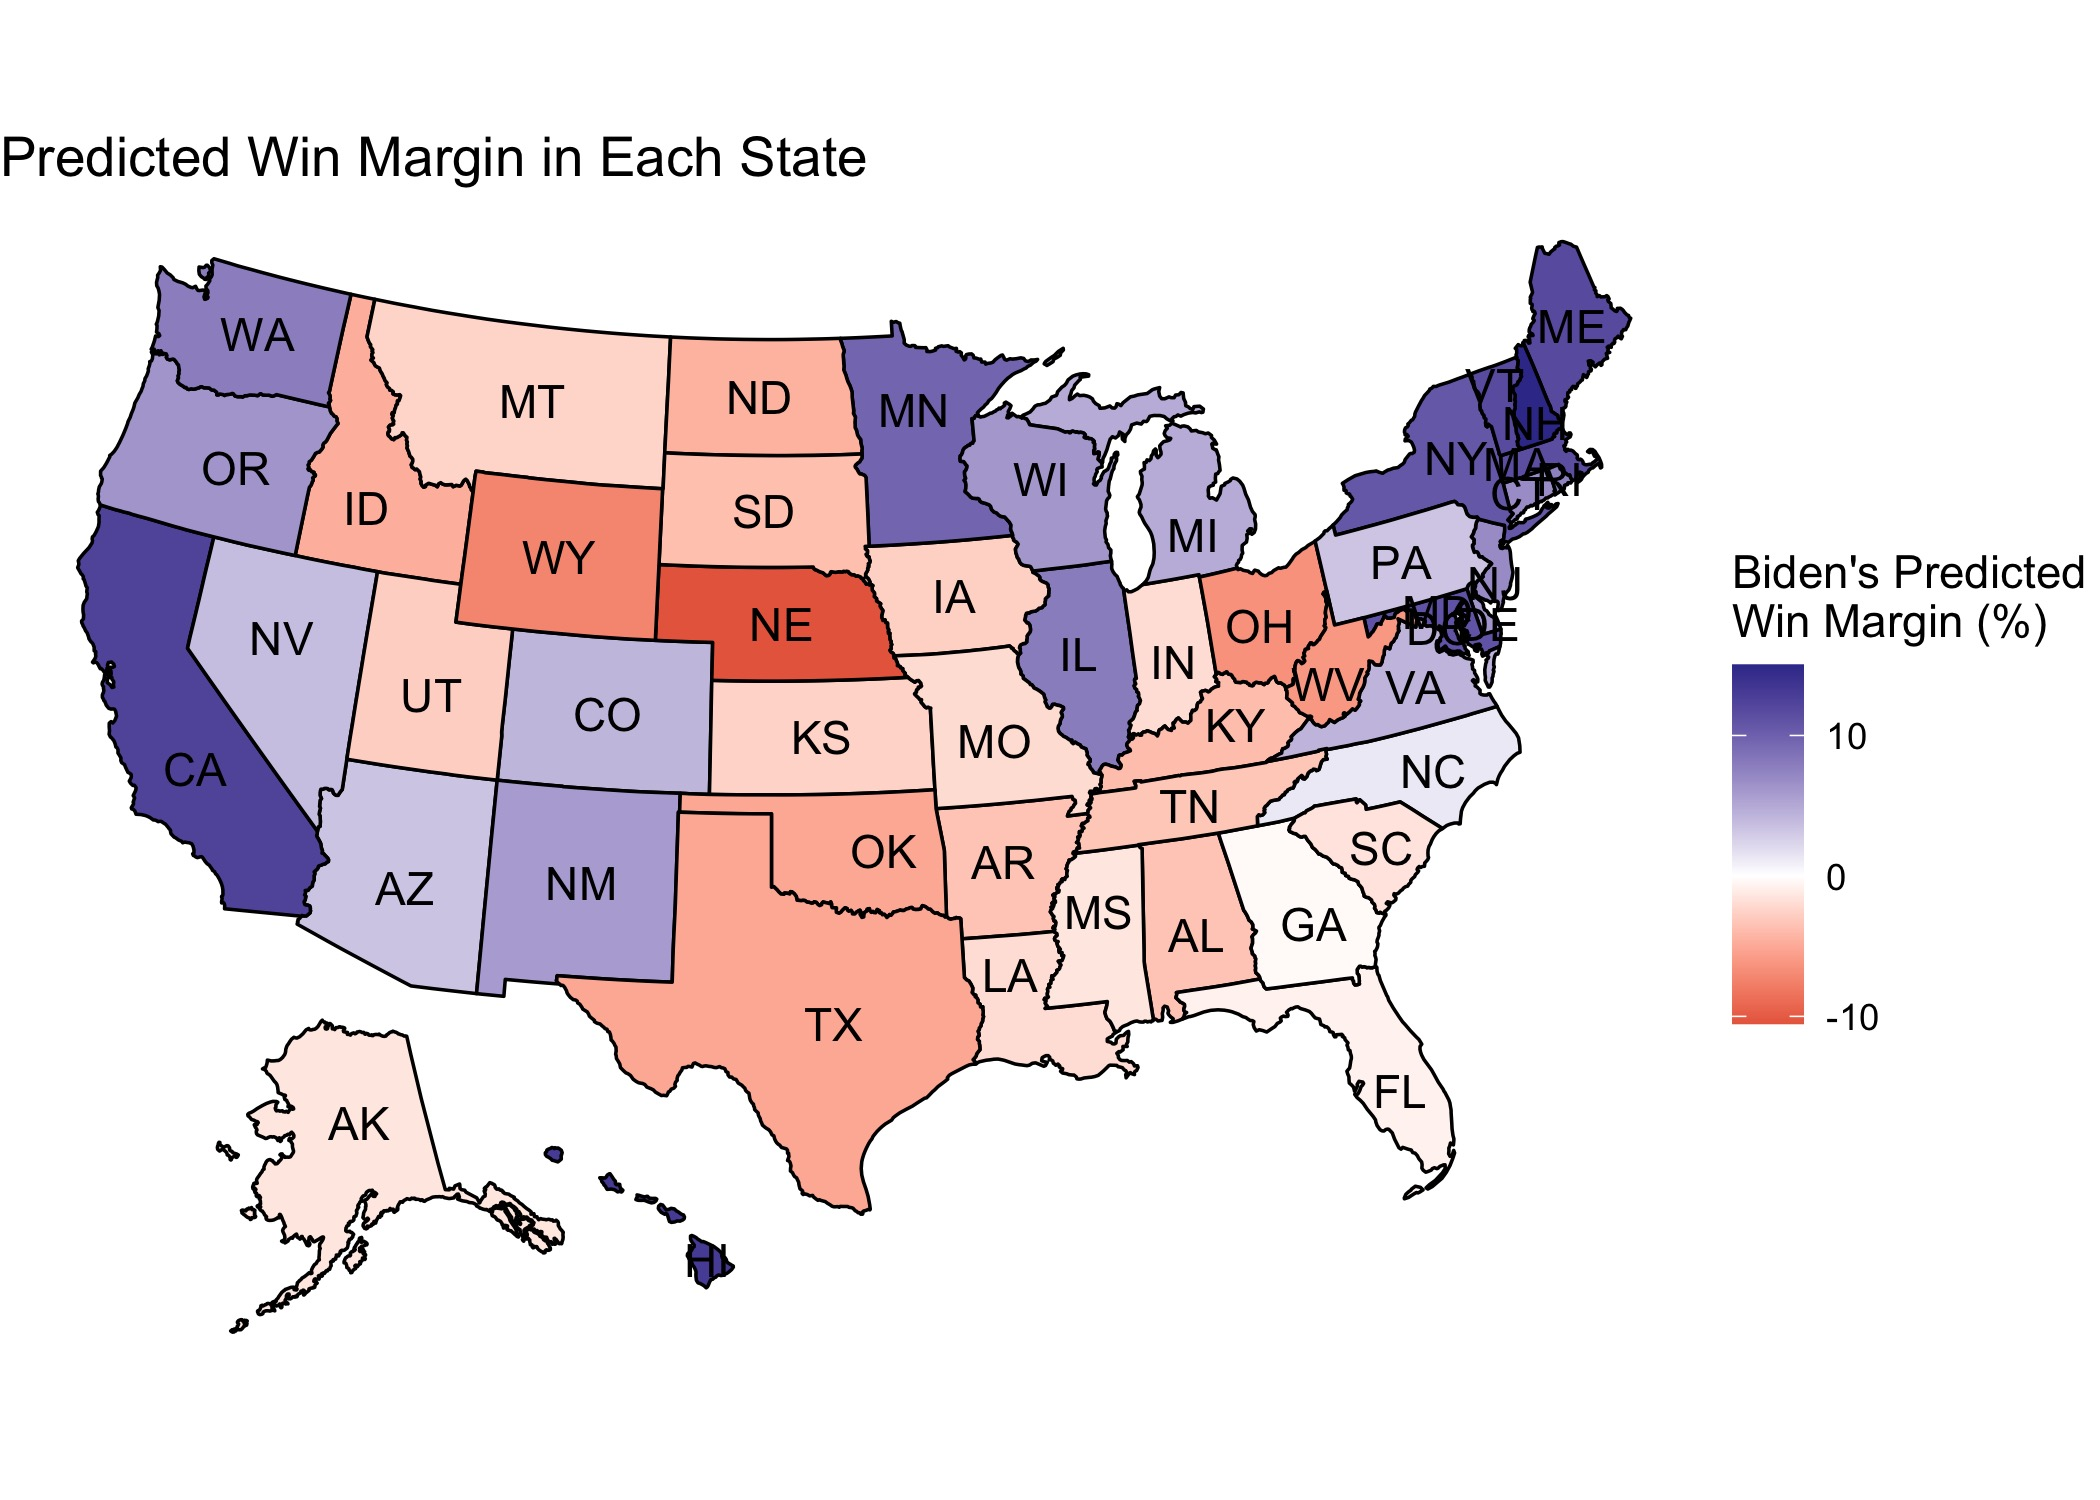
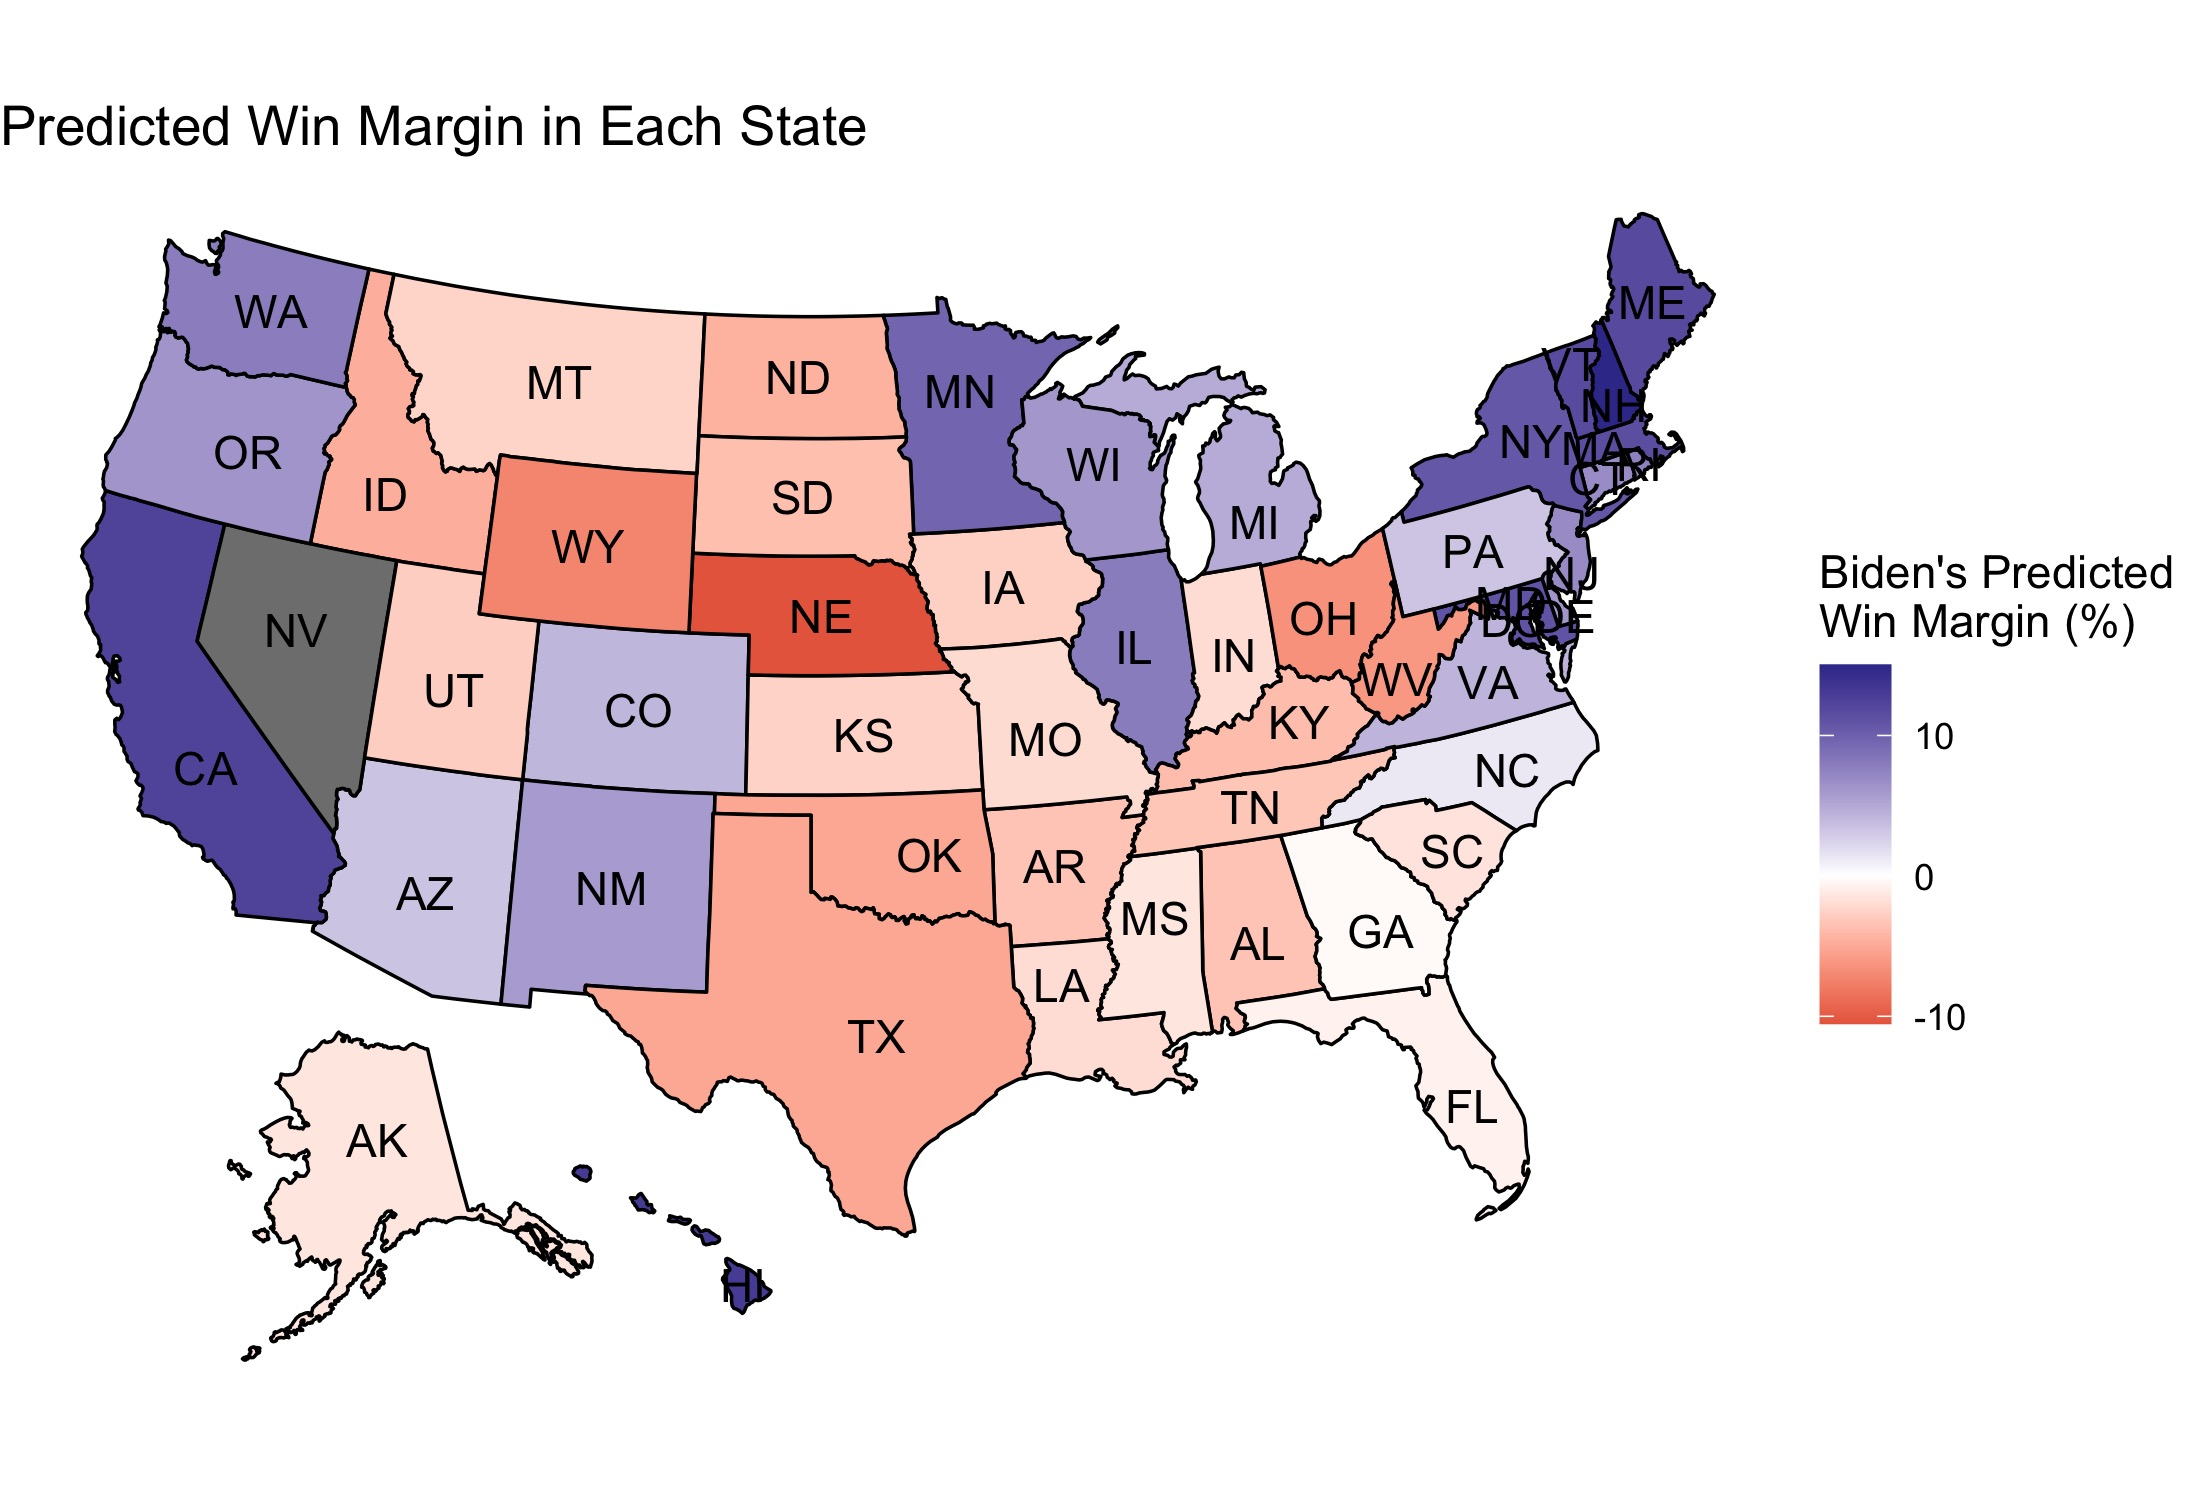
edited text of blog post and tweaked final_model

diff --git a/posts/shocks.md b/posts/shocks.md
@@ -7,30 +7,32 @@
 
 The media loves a good "October Surprise," and 2020 has had its fair share of newsworthy events. COVID-19 consistently remains the defining issue of 2020, despite other scandals ranging from [tax avoidance](https://www.nytimes.com/interactive/2020/09/27/us/donald-trump-taxes.html) by the president, [misleading the public](https://www.nytimes.com/2020/09/09/us/politics/woodward-trump-book-virus.html) on the state of COVID-19, and accusations of suspicious [emails](https://www.vox.com/2020/10/14/21515776/hunter-biden-emails-giuliani). How will the shock of COVID-19 translate into electoral outcomes?
 
-It certainly sounds interesting to think that shark attacks[^achen] led to Woodrow Wilson's defeat in the 1916 election, but most sensational headlines come from flawed statistics.[^fowler] Voter behavior punishing incumbents for natural events seems irrational, however, that may not be the case if voters can attribute damage to the party in power. For example, voters punish incumbents for economic damage resulting from tornadoes[^healy] rather than death counts. In this case, the incumbent does have the power to issue a disaster declaration and attempt to minimize economic damage. With this considered, it appears that voters respond to how the incumbent *handles* such shocks rather than blaming the incumbent for the occurrence of the events.
+It certainly sounds interesting to think that shark attacks[^achen] led to Woodrow Wilson's defeat in the 1916 election, but most sensational headlines come from flawed statistics.[^fowler] Voter behavior punishing incumbents for natural events seems irrational; however, voters can reasonably fault the incumbent for *certain results* of the such events. For example, voters punish incumbents for economic damage resulting from tornadoes[^healy] but not death counts. When focusing on economic repercussions of tornadoes, the incumbent can issue a disaster declaration and attempt to minimize economic damage. This study supports the notion that voters do in fact behave rationally and respond to how the incumbent *handles* such shocks rather than blaming the incumbent for the occurrence of the events.
 
 
 ### The Impact of COVID-19 on the 2020 Election
 
-The [economic numbers](economy.md) of 2020 undoubtedly reflect the damage of COVID; incorporating economic data into predictions helps to account for some of the pandemic-related fallout. However, voters' emotional responses to events may exist independent of economic circumstances. In this situation, polls should capture how voters process non-economic responses to current events. Examining COVID-19 metrics, for example, shows that the COVID death count and increases in positive test counts have fairly strong, negative correlations with Donald Trump's approval ratings:[^metrics]
+The pandemic wreaked havoc on the emotional and economic well-being of Americans. The [economic numbers](economy.md) of 2020 undoubtedly reflect the damage of COVID; incorporating economic data into predictions helps to account for some of the pandemic-related fallout. Under the assumption of rational voting behavior, voters may reasonably punish Donald Trump for his handling of the pandemic. However, voters may also feel that he mishandled less concrete aspects of the pandemic, such as his [hesitancy](https://www.bbc.com/news/world-us-canada-53378439) to wear a [mask](https://www.nytimes.com/2020/10/02/us/politics/donald-trump-masks.html) or his COVID-19 [diagnosis](https://www.npr.org/sections/latest-updates-trump-covid-19-results/2020/10/03/919898777/timeline-what-we-know-of-president-trumps-covid-19-diagnosis) late in the campaign.
+
+Voters' emotional responses to events may exist independent of economic circumstances. In this situation, national and statewide polls should capture voters' responses to the state of the pandemic and other current events. Examining COVID-19 metrics, for example, shows that the COVID death count and increases in positive test counts have fairly strong, negative correlations with Donald Trump's approval ratings:[^metrics]
 
 ![covid](../figures/shocks/covid_polls.jpg)
 
-Not surprisingly, public opinion about Donald Trump's handling of the COVID-19 crisis has a moderately strong, positive correlation with his overall polling numbers, and Biden's poll numbers have a negative correlation with Trump's COVID approval:
+Not surprisingly, public opinion regarding Donald Trump's handling of the COVID-19 crisis has a moderately strong, positive correlation with his overall polling numbers, and Biden's poll numbers have a negative correlation with Trump's COVID approval:
 
 ![covid_approval](../figures/shocks/covid_approval.jpg)
 
-As displayed and explained above, COVID metrics and COVID-specific approval are correlated with variables already included in my models, so I will use polls and economic metrics as a proxy for the impact of COVID to avoid redundancy.
+Since COVID metrics and COVID-specific approval are correlated with variables already included in my models, I will avoid redundancy by using polls and economic metrics as proxies for the impact of COVID.
 
 ### Modeling with Economic Numbers and Polls, by State
 
-A few minor tweaks to [last week's](turnout.md) imperfect model strengthened it significantly. As I mentioned in the previous post, fitting a separate model for each state left each model extremely susceptible to overfitting and poor out-of-sample performance. To fix this, I made the following changes:
+A few modifications to [last week's](turnout.md) model led to much more reasonable predictions. As I mentioned in the previous post, fitting a separate model for each state left each model extremely susceptible to overfitting and poor out-of-sample performance. To fix this, I made the following changes:
 
-* I fit separate models for 3 different categories of states: likely blue states, likely red states, and battleground states,[^categories] with the thinking that voters exhibit similar behavior in elections within their state's group. With this method, I used each state as an individual observation of an election, which drastically increased the observed outcomes from which I constructed the model.
+* I fit separate models for 3 different categories of states--likely blue states, likely red states, and battleground states[^categories]--with the thinking that voters within groups of states exhibit similar behavior in elections. This method uses each state in every election as an individual observation, which drastically increased the size of the sample from which I constructed the model.
 
-* With parsimony in mind, I cut out several predictor variables from last week's model.[^parsimony] This new model predicts the voter turnout for each party using state polling numbers from 2 weeks out, the candidate's incumbency status, the interaction between incumbency and polls, national Q1 GDP growth, the previous election's Democratic vote margin in that state, and the change in that state's Black population.
+* For the sake of parsimony, I omitted several predictor variables from last week's model.[^parsimony] This new model predicts the voter turnout for each party using state polling numbers from 2 weeks out, the candidate's incumbency status, the interaction between incumbency and polls, national Q1 GDP growth, the previous election's Democratic vote margin in that state, and the change in that state's Black population.
 
-I maintained the underlying binomial logistic structure from last week, and I varied the turnout as I did before. This method yielded much closer and more reasonable predictions for each state:
+I maintained the underlying binomial logistic structure from last week, and I varied the turnout as I did before. This method forecasts an electoral count of 305 for Biden, but the model projects many close state-wide races:
 
 ![map](../figures/shocks/margin_map.jpg)
 
@@ -43,7 +45,7 @@ The above map displays the closeness of the race in each state. For a better loo
 
 ### Looking Ahead
 
-With less than two weeks remaining until Election Day, my next post will be my final election prediction. For this post, I used the model to make a preliminary prediction as part of the discussion about how the polling numbers and economic data fit into COVID-19. Throughout the next week, I will continue to modify this model and will update it with new polling numbers. My final prediction will go into further depth about my reasoning behind constructing the model, its strength and external validity, and uncertainty surrounding the prediction.
+With less than two weeks remaining until Election Day, my next post will contain a final election prediction. For this post, I used my model as part of the discussion about how the polling numbers and economic data fit into COVID-19. Throughout the next week, I will continue to modify this model and will update it with new polling numbers. My final prediction will go into further depth about my reasoning behind constructing the model, its strength and external validity, and uncertainty surrounding the prediction.
 
 ------------------------------------------------------------------
 
